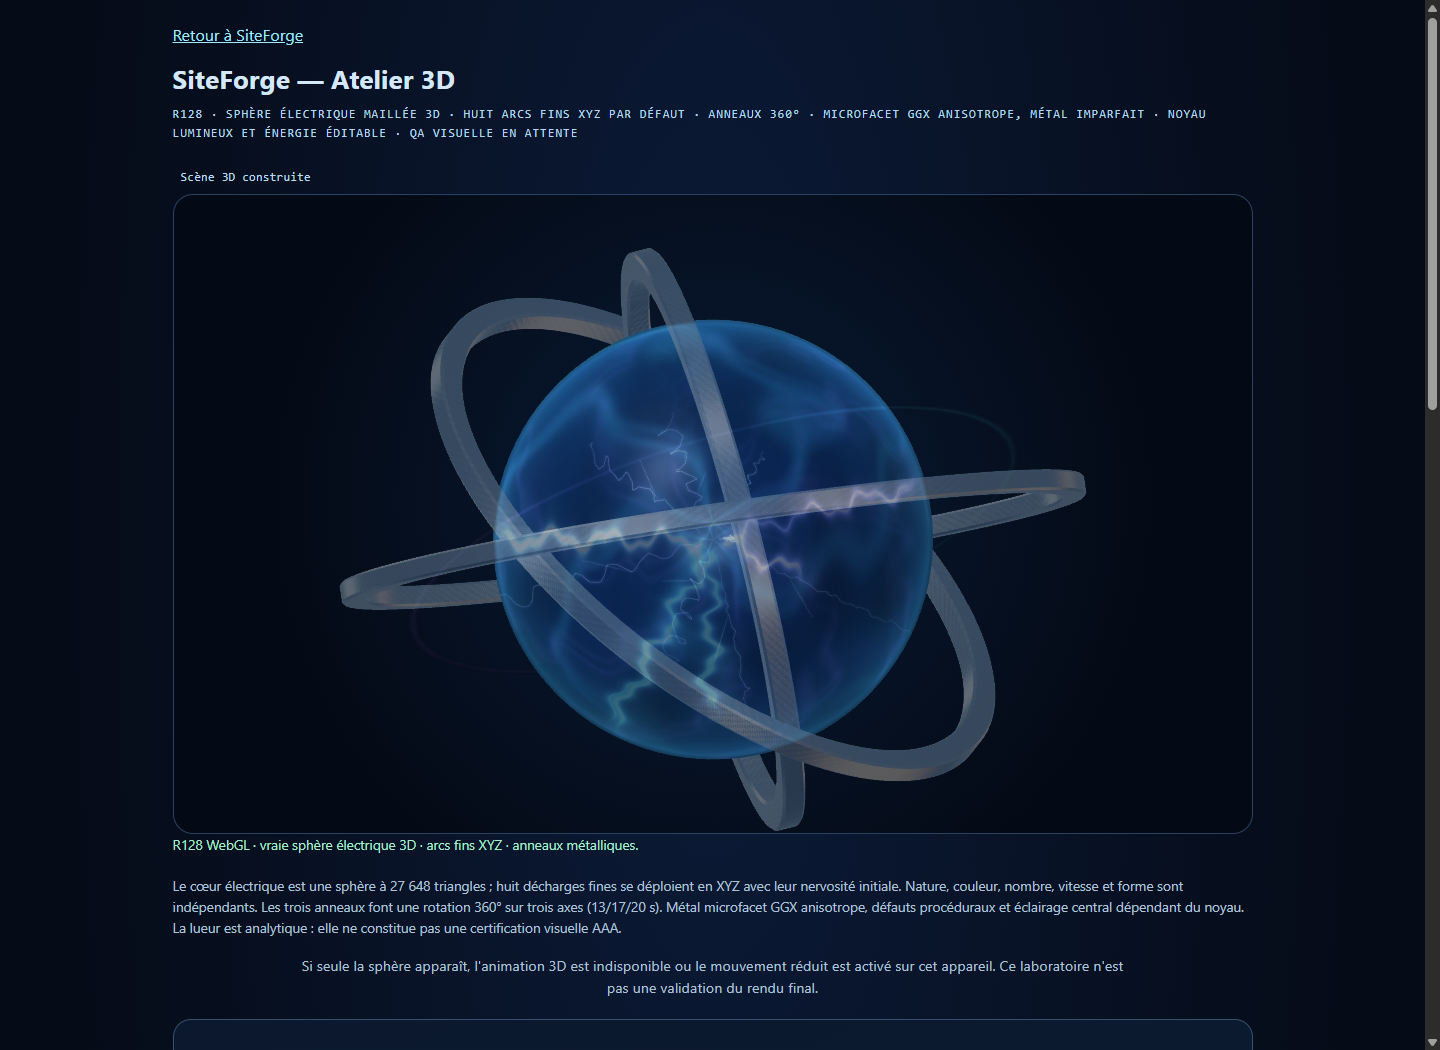
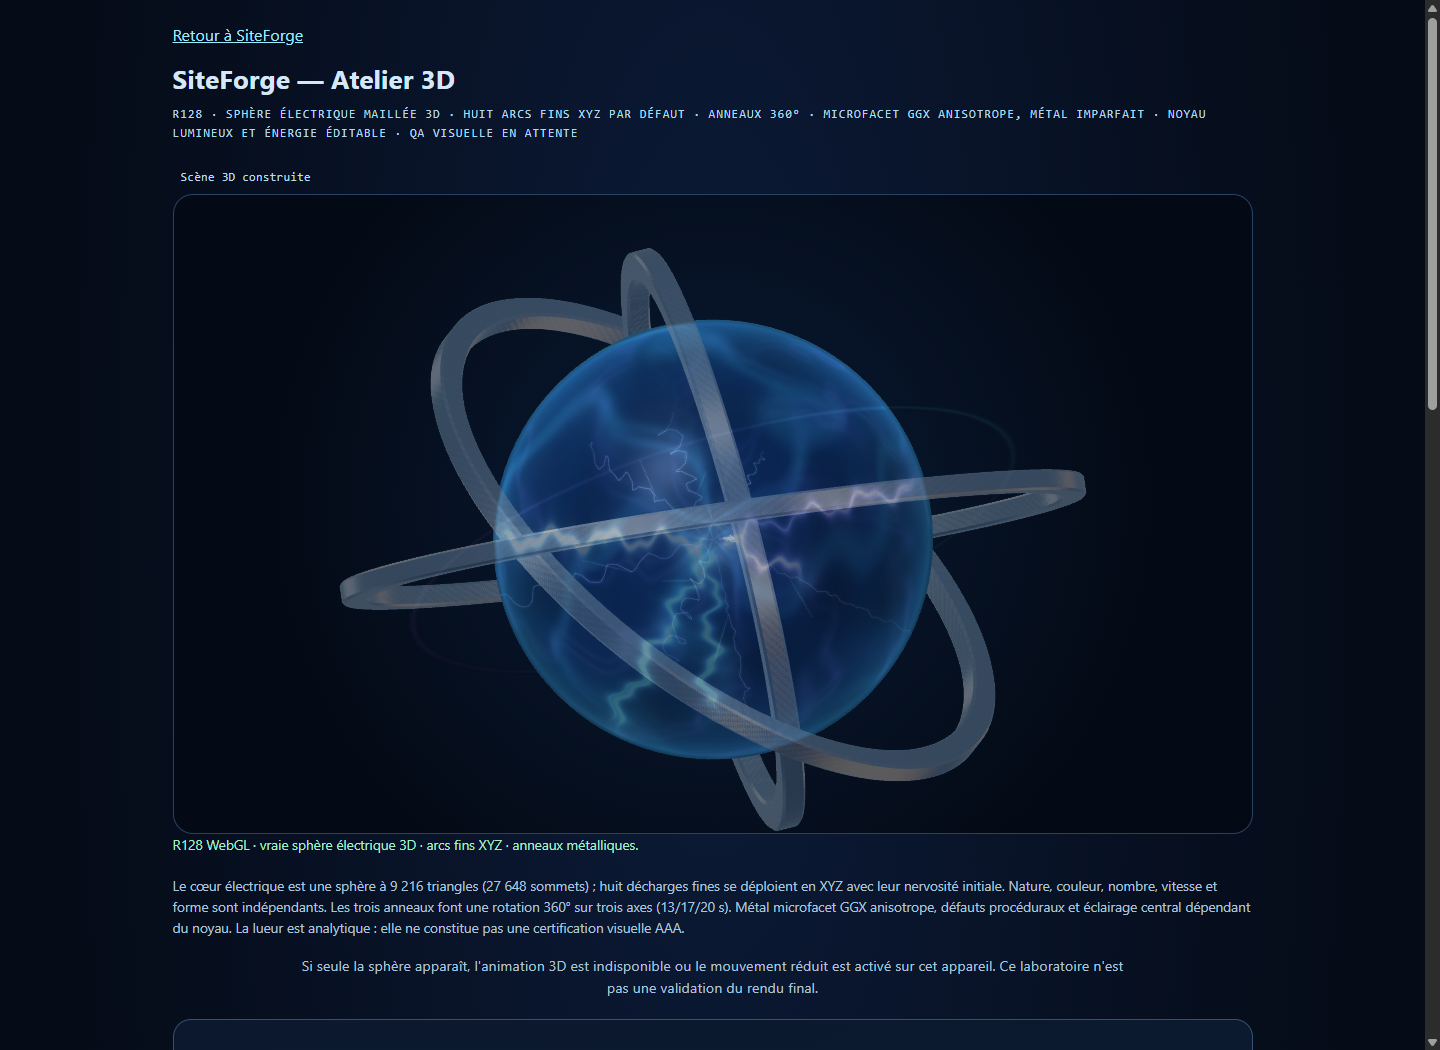
docs(siteforge): R128 final 58 PASS, verified 9216 sphere faces and updated Chrome screenshot

Changed region(s): [[0.125, 0.8229, 0.875, 0.9143]]

diff --git a/reasoning/SITEFORGE_3D_R128_MESH_LIGHTNING_20261026.md b/reasoning/SITEFORGE_3D_R128_MESH_LIGHTNING_20261026.md
@@ -1,25 +1,28 @@
 # SiteForge 3D R128 — vrai noyau 3D et restitution électrique R121
 
 MISSION_ID=SYN_SITEFORGE_3D_LAB_R128_REAL_3D_ELECTRIC_CORE
-CODE_SHA=bffe4e9e7d7c55d577065b2cc3151b116653351f
+CODE_SHA=e47e461c84911ffdef0c14e2a90a5593ba32a8a1
 PR=#5 DRAFT; BRANCH=task/SYN_VITRINE_SITEFORGE_R91_PREVIEW_20261024
-SCREENSHOT_SHA=1428a1c8f71677f4938145fd5772b417539d7e6c
-DEPLOYMENT=c871f5b4-f7e8-499a-a33a-4bc5d38814bc
+SCREENSHOT_SHA=16f4ea5ceb247973d26b5c745555880127b71440
+DEPLOYMENT=a3aa385f-6f2a-45da-8eb9-9011af820abb
 
 ## Correctif causal
-R127 remplaçait visuellement la sphère R121 par une couche lumineuse écran XY (shader du quad). Cela produisait un noyau plat. R128 conserve le quad uniquement comme halo optique : la matière du noyau est dessinée par une sphère géométrique de 48 × 96 cellules, 27 648 triangles, avec shader WebGL1 éclairé par normales XYZ et bruit volumétrique cohérent issu des couleurs, courants et subtilités de R121. Le rayon agit sur mesh ET masque de profondeur. Les anneaux 3D et tous leurs contrôles restent intacts.
+R127 remplaçait visuellement la sphère R121 par une couche lumineuse écran XY (shader du quad). Cela produisait un noyau plat. R128 conserve le quad uniquement comme halo optique : la matière du noyau est dessinée par une sphère géométrique de 48 × 96 cellules, 9 216 triangles (27 648 sommets), avec shader WebGL1 éclairé par normales XYZ et bruit volumétrique cohérent issu des couleurs, courants et subtilités de R121. Le rayon agit sur mesh ET masque de profondeur. Les anneaux 3D et tous leurs contrôles restent intacts.
 
 Les huit arcs initiaux sont interprétés par une vraie géométrie XYZ. La rythmique asynchrone électrique (~1,12 s), les ramifications et micro-déviations sont conservées comme vocabulaire visuel, et la largeur du filament est réduite à .0024 × épaisseur, avec halo séparé .0115 × épaisseur. Les résolutions géométriques sont 22/40/64 segments selon les profils.
 
 ## QA visuelle et correction
-Une capture réelle Chrome du commit R128 avant culling montrait un intérieur trop cyan/lumineux. Cause : l'écriture des deux faces de la sphère en alpha blending avant/après superposait front et dos. Correctif : activation temporaire de gl.CULL_FACE avec gl.BACK pendant la passe du noyau, puis restauration du mode de rendu avant les arcs et les anneaux. Nouvelle capture rend le noyau plus profond, moins opalescent et plus lisible. Capture sauvegardée dans Git au blob 1428a1c8f71677f4938145fd5772b417539d7e6c. Chromium desktop 1440×1050 et code bffe4e9e7d7c55d577065b2cc3151b116653351f validés par capture. Aucun résultat équivalent n'est encore attesté sur Safari iPhone ou GPU mobile.
+Une capture réelle Chrome du commit R128 avant culling montrait un intérieur trop cyan/lumineux. Cause : l'écriture des deux faces de la sphère en alpha blending avant/après superposait front et dos. Correctif : activation temporaire de gl.CULL_FACE avec gl.BACK pendant la passe du noyau, puis restauration du mode de rendu avant les arcs et les anneaux. Nouvelle capture rend le noyau plus profond, moins opalescent et plus lisible. Capture sauvegardée dans Git au blob 16f4ea5ceb247973d26b5c745555880127b71440. Chromium desktop 1440×1050 et code e47e461c84911ffdef0c14e2a90a5593ba32a8a1 validés par capture. Aucun résultat équivalent n'est encore attesté sur Safari iPhone ou GPU mobile.
 
 ## Déploiement et tests
-Cloudflare Pages Preview: https://c871f5b4.synestra-vitrine-preview.pages.dev/siteforge/core-3d-lab/ (Access protège la consultation).
-Deployment=c871f5b4-f7e8-499a-a33a-4bc5d38814bc ; code=bffe4e9e7d7c55d577065b2cc3151b116653351f ; 57/57 Node tests PASS, export statique PASS 43 fichiers. Page d'accueil blob=43810b6eaa878c523eb06d97542d791543765d55 inchangé, branche main non modifiée. Chrome local:file sur clone exact-head, non équivalent à une session Access authentifiée sur URL live.
+Cloudflare Pages Preview: https://a3aa385f.synestra-vitrine-preview.pages.dev/siteforge/core-3d-lab/ (Access protège la consultation).
+Deployment=a3aa385f-6f2a-45da-8eb9-9011af820abb ; code=e47e461c84911ffdef0c14e2a90a5593ba32a8a1 ; 58/58 Node tests PASS, export statique PASS 43 fichiers. Page d'accueil blob=43810b6eaa878c523eb06d97542d791543765d55 inchangé, branche main non modifiée. Chrome local:file sur clone exact-head, non équivalent à une session Access authentifiée sur URL live.
 
 ## Limites, risques, choix
 Rendu WebGL1 procédural réellement maillé, pas photoréalisme AAA certifié. Anneaux encore stylisés; qualité et fluidité sur appareils modestes inconnues. Capture ciblée avec contexte et animation en état stable, pas d'approbation esthétique finale implicite. Limiter la puissance CPU et le nombre de filaments pour un site web plutôt qu'un jeu. Retirer les travaux expérimentaux non vérifiés seulement après retour visuel. Fallback original R121 conservé dans l'atelier; page principale intacte.
 
 ## Reprise
-Examiner Preview authentifiée sur Safari iPhone et Chrome desktop, tester changement de nature des impulsions, épaisseur, vitesse et couleur en interaction; mesurer FPS, puis réaliser uniquement les ajustements de qualité visuelle observés. Rétrogradation possible vers le code bffe4e9e7d7c55d577065b2cc3151b116653351f ou R127 de référence, exclusivement sur branche Preview avec contrôle HEAD/worktree.
+Examiner Preview authentifiée sur Safari iPhone et Chrome desktop, tester changement de nature des impulsions, épaisseur, vitesse et couleur en interaction; mesurer FPS, puis réaliser uniquement les ajustements de qualité visuelle observés. Rétrogradation possible vers le code e47e461c84911ffdef0c14e2a90a5593ba32a8a1 ou R127 de référence, exclusivement sur branche Preview avec contrôle HEAD/worktree.
+
+## Correction quantitative et capture finale
+R128 comprend exactement 48 bandes polaires × 96 segments longitudinaux × 2 triangles = 9 216 triangles et 27 648 sommets non indexés. L'ancien libellé inversait triangles/sommets. La capture finale Chrome desktop 1440×1050 correspond au commit e47e461c84911ffdef0c14e2a90a5593ba32a8a1 et blob 16f4ea5ceb247973d26b5c745555880127b71440. Aucun changement de matière/rendu entre la capture R128 précédente et cette correction de documentation UI. Build Cloudflare 58/58 PASS.
